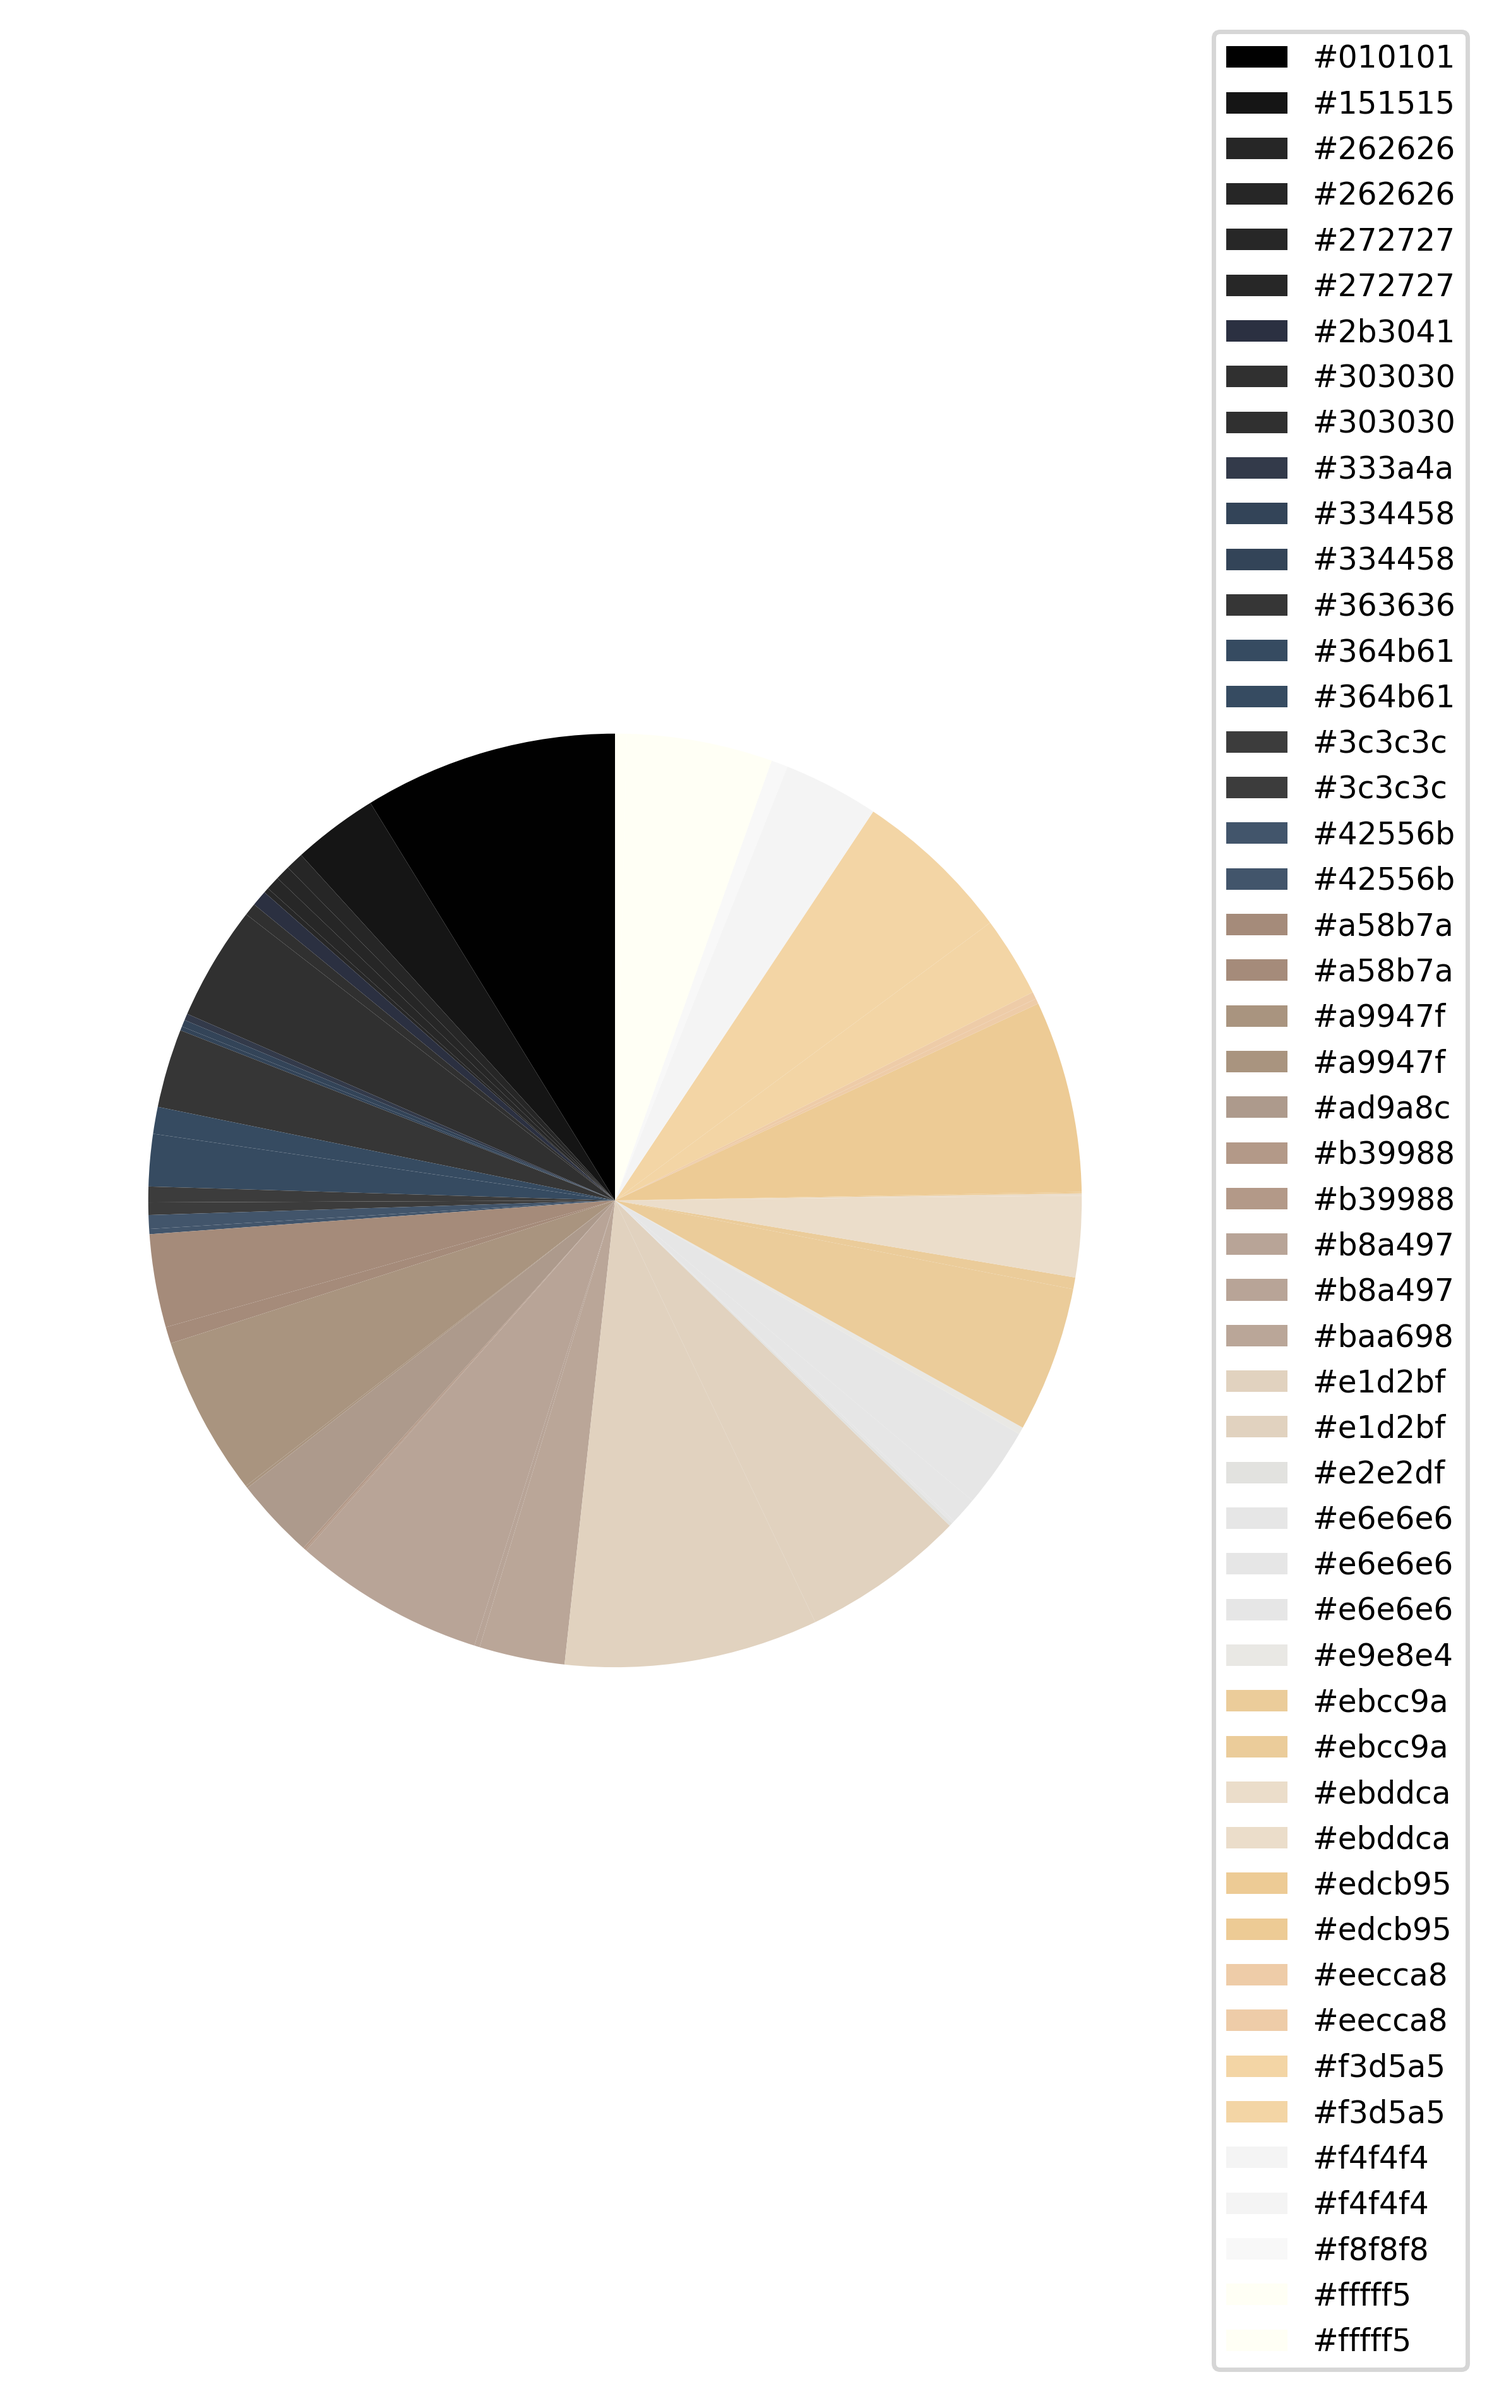
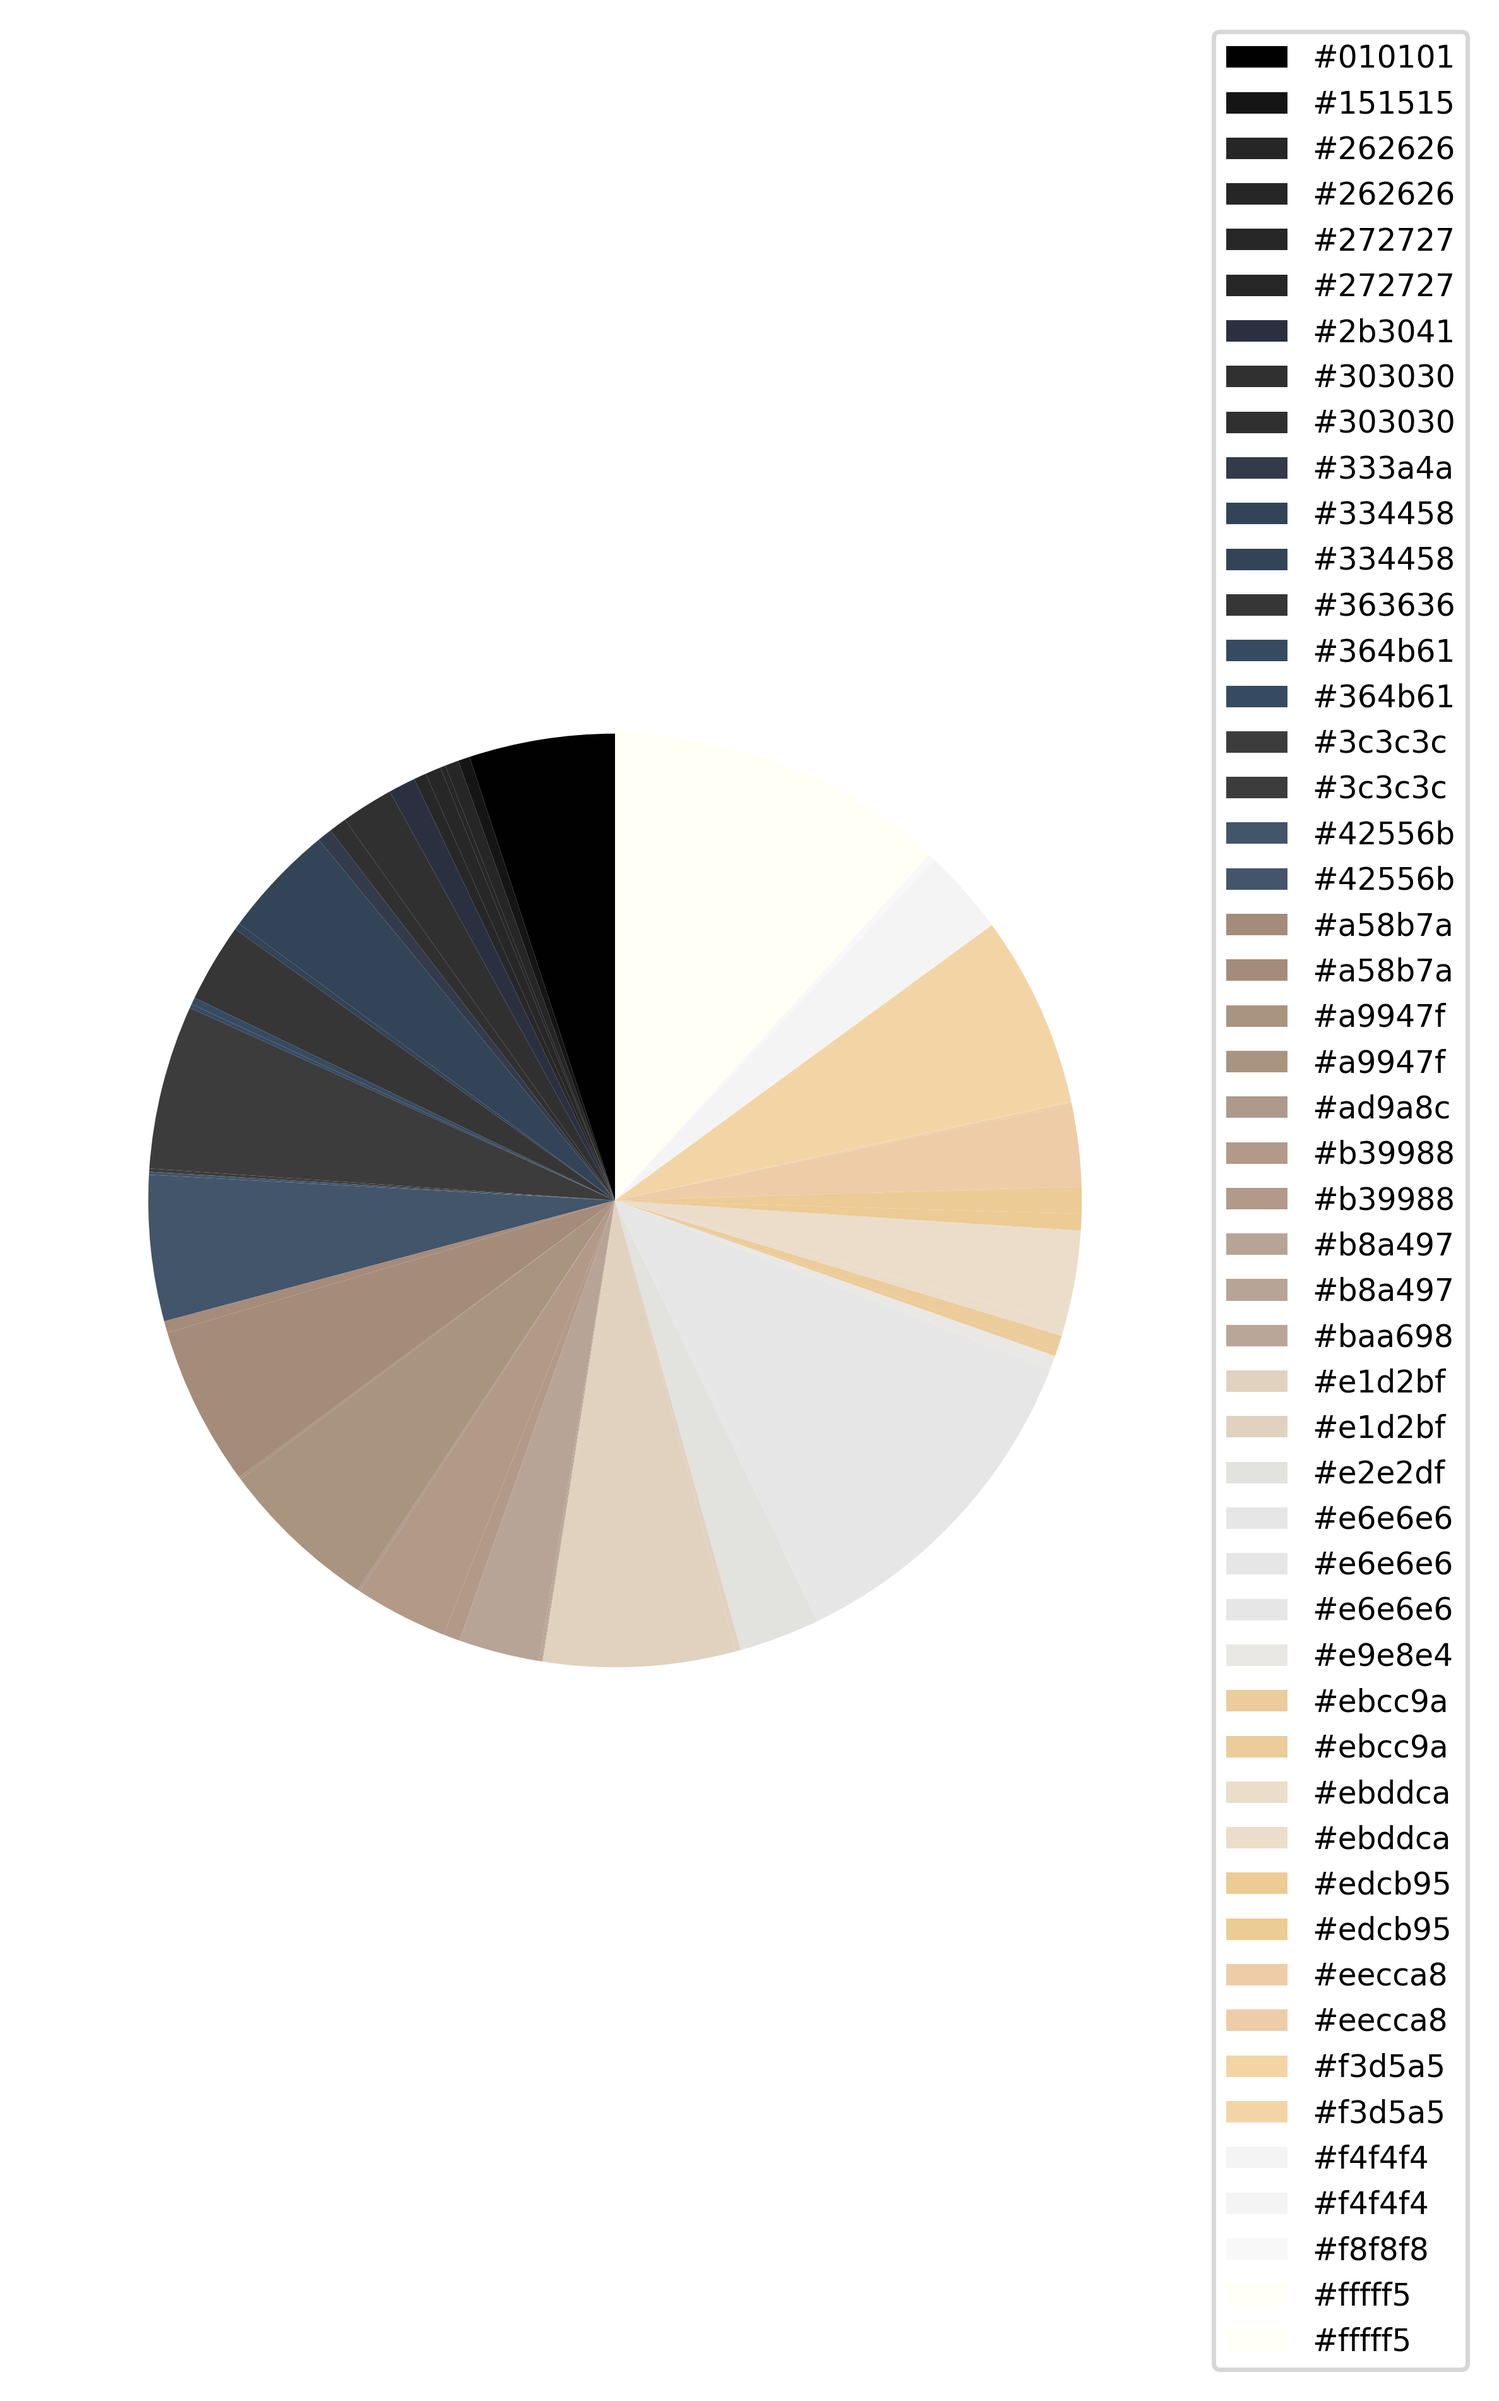
updated bug

Changed region(s): [[0.0935, 0.3104, 0.7169, 0.7138]]

diff --git a/designer_color_scrape.py b/designer_color_scrape.py
@@ -27,12 +27,17 @@ class image_identifier:
         return hex_list
 
     def pie_chart(self, individual_images):
+        """
+        Creates a pie chart of the list of colors found.
+        :param individual_images:
+        :return:
+        """
         print("Running pie_chart")
         colors = self.sorted_colors
         if not individual_images:
             colors = self.all_sorted_colors
 
-        if self.sorted_colors:
+        if self.all_sorted_colors:
             labels = list()
             sizes = list()
             for color in colors:
@@ -47,7 +52,7 @@ class image_identifier:
         else:
             raise "Must call get_image_main_colors() first before calling pie_chart()"
 
-    def most_common_colors(self, most_common=300):
+    def image_most_common_colors(self, most_common=300):
         """
         Called by image_main_colors. Gets all the most common colors in the image. That counts the rgb values of each
         pixel in the image. While making sure that shades of colors are not included based on a certain
@@ -56,7 +61,7 @@ class image_identifier:
         :param most_common:
         :return: most_common_rgb: returns a Counter datatype. Of the counted rbg values in the image.
         """
-        print("Running most_common_colors")
+        print("Running image_most_common_colors")
         most_common_rgb = Counter(self.by_color).most_common(most_common)
         common_rgb_clone = most_common_rgb.copy()
 
@@ -100,7 +105,7 @@ class image_identifier:
             if pixel != (0, 0, 0) and pixel != (255, 255, 255):
                 self.by_color[pixel] += 1
 
-        sorted_colors = self.most_common_colors()
+        sorted_colors = self.image_most_common_colors()
         self.compile_all_main_colors(sorted_colors)
         return self.sorted_colors
 
@@ -128,8 +133,9 @@ class file_manager(image_identifier):
         :return:
         """
         print("Running get_image")
+        files = sorted(files)
         for file_name in files:
-            print(directory)
+            print("\nNew File: ", file_name)
             with Image.open(f'{directory}/{file_name}') as image:
                 # print(f"Analysing: {file_name}")
                 self.image_main_colors(image)
@@ -213,5 +219,12 @@ if __name__ == "__main__":
                            minimum_percentage_similarity=20, image_limit=30)
 
     # image_s.fetch_louis_vuitton_pages()
+
+    # Calls: get_files_list() -> get_image() ->
+    # Loops(Running image_main_color -> Running image_most_common_colors -> Running compile_all_main_colors)
     image_s.get_designer_images()
+
+    print("\nProgram Finished, displaying results...")
+
+    # Calls: rgb_to_hex()
     image_s.pie_chart(individual_images=False)
